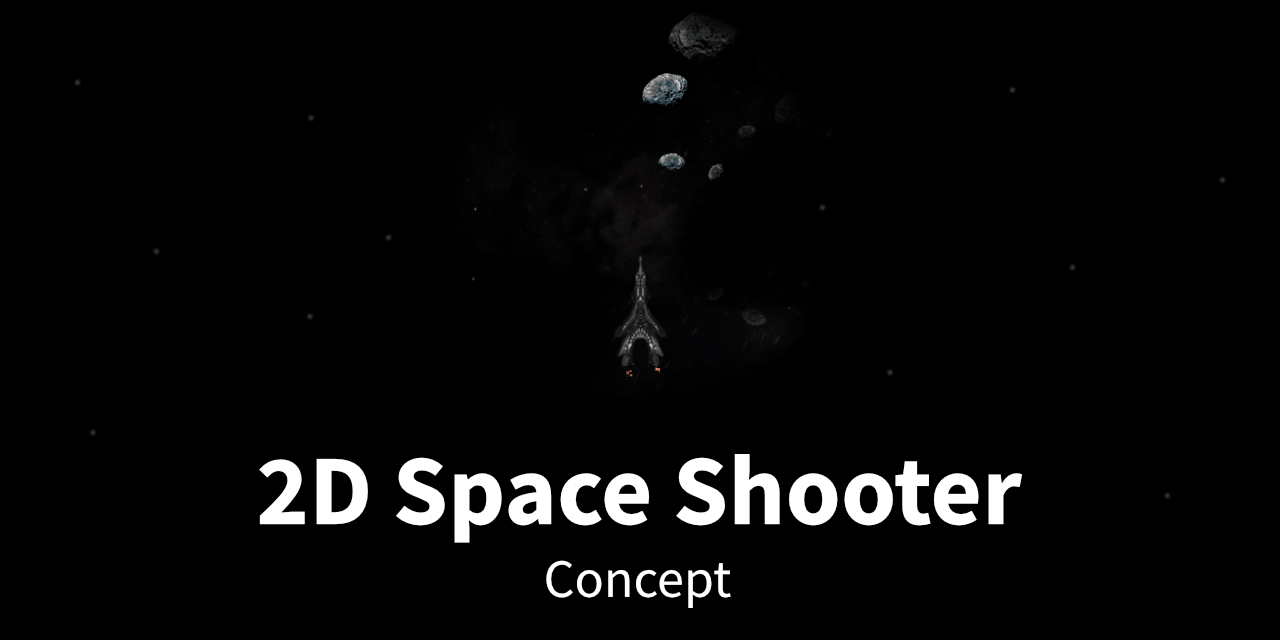
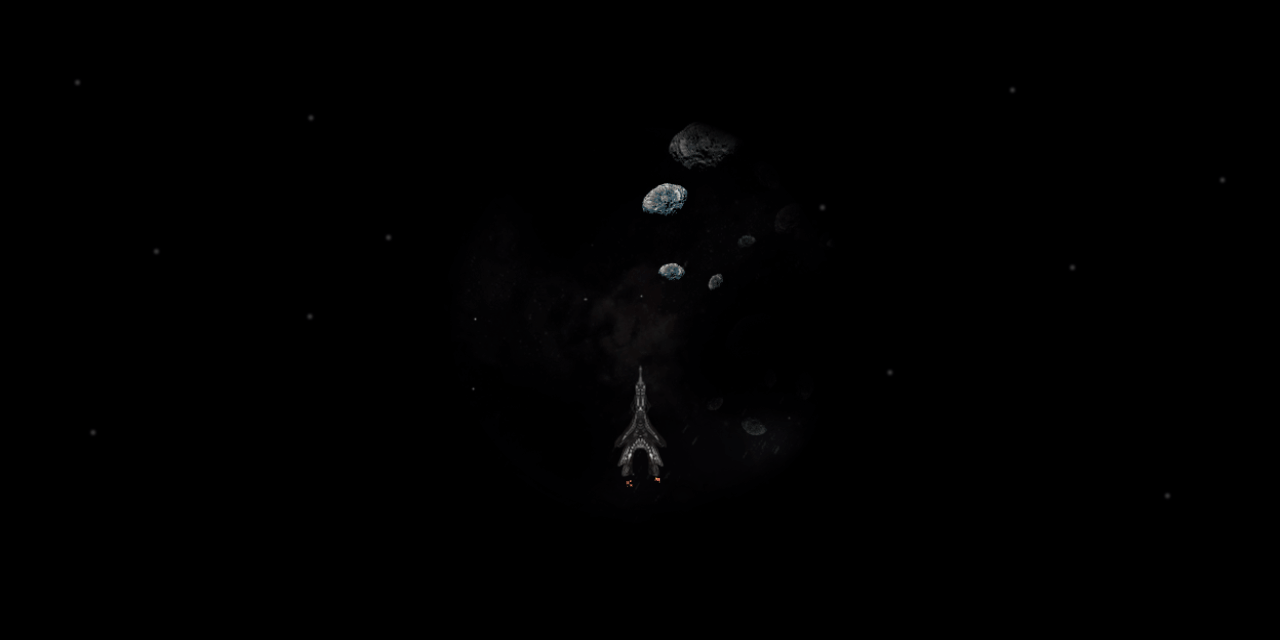
Refactor (#2)
* .

* Readme

* .

diff --git a/README.md b/README.md
@@ -1,6 +1,8 @@
 [![2D Space Shooter Concept](teaser.png)](https://christianoellers.github.io/2D-Space-Shooter-Concept)
 
-# Experimental game
+# 2D Space Shooter Concept
+
+Experimental game
 
 - [About](#about)
 - [Examples](#examples)
